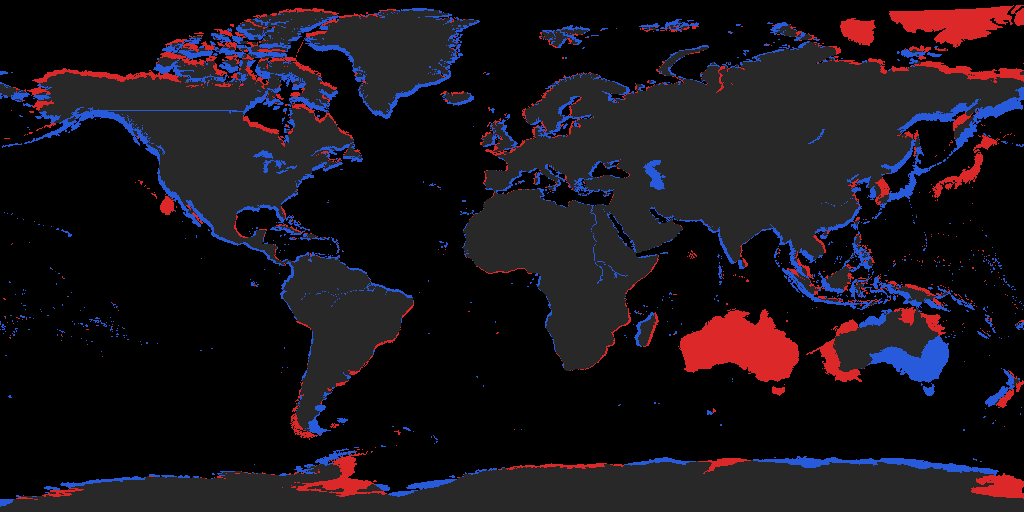
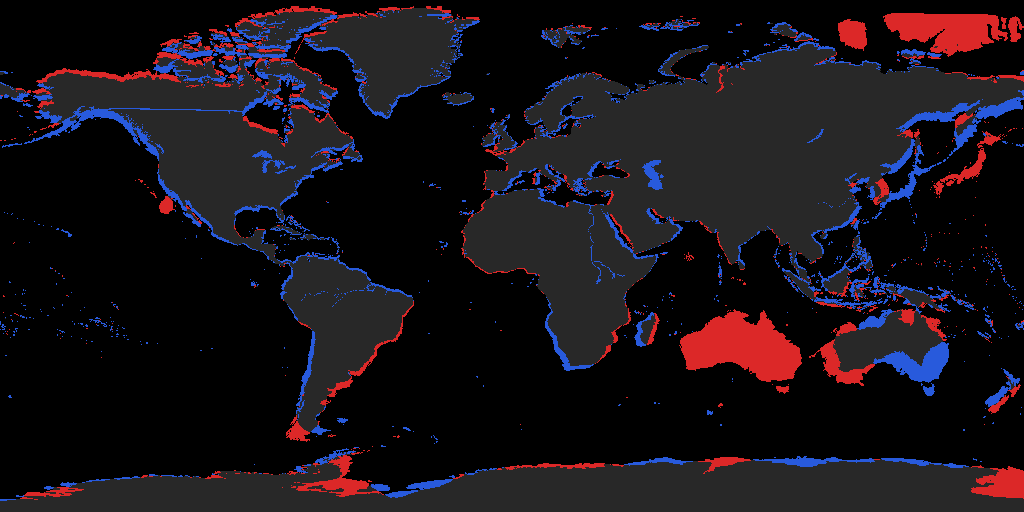
mapfix: fit world & Antarctica bands separately (per-band poly)
The world map (Miller) and Antarctica map (equirect) are different projections
stitched at the seam; a single global polynomial averaged two unrelated
distortions across it. Now --model poly fits each band on its own
(fit_poly_field_banded): world --poly-degree 5, thin Antarctica --ant-degree 3,
y normalized within each band, seam rows lightly blended. Default --per-band
(--no-per-band keeps the old global fit).

Result vs global poly: total land/sea disagreement 9.18% -> 8.70%; squeezed
provinces 56 -> 36; tiny delta +64 -> +36; fragmented 294 (< live 663); all
15320 IDs survive; PASS. Remaining residual is mostly the protected intentional
distortions + the irreducible 1px coastline fringe.

diff --git a/tools/mapfix/warp_map.py b/tools/mapfix/warp_map.py
@@ -318,16 +318,85 @@ def fit_poly_field(ys, xs, dy, dx, conf, shape, degree):
     return DY, DX
 
 
+def _fit_poly_rows(ys, xs, dy, dx, conf, w, r0, r1, degree):
+    """Fit a poly to the nodes whose row is in [r0, r1) and evaluate it over
+    exactly those rows. y is normalized WITHIN the band so the fit stays well
+    conditioned even for a thin band (e.g. Antarctica). Returns (r1-r0, w) DY,DX.
+    """
+    rsel = np.where((ys >= r0) & (ys < r1))[0]
+    span = max(r1 - 1 - r0, 1)
+    terms = _poly_terms(degree)
+    YS, XS = np.meshgrid(ys[rsel], xs, indexing="ij")
+    yn = ((YS - r0) / span) * 2 - 1
+    xn = (XS / (w - 1)) * 2 - 1
+    wts = np.clip(conf[rsel], 0, None).ravel()
+    m = wts > 1e-6
+    A = np.stack([(yn ** i * xn ** j).ravel() for (i, j) in terms], axis=1)
+    Aw = A[m] * wts[m, None]
+
+    def solve(vals):
+        bw = vals[rsel].ravel()[m] * wts[m]
+        c, *_ = np.linalg.lstsq(Aw, bw, rcond=None)
+        return c
+
+    cy, cx = solve(dy), solve(dx)
+    yy, xx = np.mgrid[r0:r1, 0:w]
+    ynf = (((yy - r0) / span) * 2 - 1).astype(np.float32)
+    xnf = ((xx / (w - 1)) * 2 - 1).astype(np.float32)
+    DYb = np.zeros((r1 - r0, w), np.float32)
+    DXb = np.zeros((r1 - r0, w), np.float32)
+    for (i, j), c_y, c_x in zip(terms, cy, cx):
+        b = ynf ** i * xnf ** j
+        DYb += (c_y * b).astype(np.float32)
+        DXb += (c_x * b).astype(np.float32)
+    return DYb, DXb
+
+
+def fit_poly_field_banded(ys, xs, dy, dx, conf, shape, bands, degree, ant_degree):
+    """Fit a SEPARATE polynomial per map band (world vs Antarctica) and stack
+    them. The world map (Miller) and the Antarctica map (equirect) are different
+    projections stitched at the seam, so a single global poly averages two
+    unrelated distortions across the seam. Fitting each band on its own corrects
+    each independently. The thin Antarctica band uses a lower degree. Seam rows
+    are lightly blended to avoid a hard step in the displacement."""
+    h, w = shape
+    DY = np.zeros((h, w), np.float32)
+    DX = np.zeros((h, w), np.float32)
+    seams = []
+    for band in bands:
+        name = band[0].lower()
+        r0 = max(0, int(round(band[1] * h)))
+        r1 = min(h, int(round(band[2] * h)))
+        if r1 <= r0:
+            continue
+        nrows = int(((ys >= r0) & (ys < r1)).sum())
+        deg = ant_degree if name == "antarctica" else degree
+        deg = max(1, min(deg, nrows - 1)) if nrows > 1 else 1
+        DY[r0:r1], DX[r0:r1] = _fit_poly_rows(ys, xs, dy, dx, conf, w, r0, r1, deg)
+        if r0 > 0:
+            seams.append(r0)
+    # soften each seam over a few rows so the warp has no hard step there
+    for s in seams:
+        t = 6
+        a, b = max(0, s - t), min(h, s + t)
+        if b - a >= 3:
+            DY[a:b] = gaussian_filter(DY[a:b], (t / 2.0, 0))
+            DX[a:b] = gaussian_filter(DX[a:b], (t / 2.0, 0))
+    return DY, DX
+
+
 def densify(ys, xs, dy, dx, conf, shape, smooth, gcps=None, protect=None,
-            gcp_radius=0.06, model="field", degree=4):
+            gcp_radius=0.06, model="field", degree=4, per_band=True,
+            bands=None, ant_degree=2):
     """Build the displacement field, then apply GCPs and protection.
 
     model='field' (default): confidence-weighted Gaussian smoothing + upsample
       of the dense node displacements. Follows local coastlines closely but can
       introduce visible wobble.
-    model='poly': fit one smooth low-degree polynomial to the node samples
-      (see fit_poly_field). Corrects only the large-scale (aspect-ratio) warp,
-      no wobble.
+    model='poly': fit a smooth low-degree polynomial to the node samples (see
+      fit_poly_field). Corrects only the large-scale (aspect-ratio) warp, no
+      wobble. With per_band=True, fits world and Antarctica bands separately
+      (recommended -- the two are different projections; see fit_poly_field_banded).
 
     GCPs are applied as LOCAL nudges: each control point adds its residual
     (desired - auto displacement) with a Gaussian falloff (radius = gcp_radius
@@ -336,7 +405,10 @@ def densify(ys, xs, dy, dx, conf, shape, smooth, gcps=None, protect=None,
     Protected regions have their displacement feathered back to zero.
     """
     h, w = shape
-    if model == "poly":
+    if model == "poly" and per_band and bands:
+        DY, DX = fit_poly_field_banded(ys, xs, dy, dx, conf, shape, bands,
+                                       degree, ant_degree)
+    elif model == "poly":
         DY, DX = fit_poly_field(ys, xs, dy, dx, conf, shape, degree)
     else:
         cw = np.clip(conf, 0, None)
@@ -529,8 +601,13 @@ def main():
                     help="poly = smooth low-order warp (no wobble, large-scale "
                          "only, default); field = dense block-match field "
                          "(follows coastlines closely but can wobble)")
-    ap.add_argument("--poly-degree", type=int, default=4,
-                    help="polynomial degree for --model poly (3-5 typical)")
+    ap.add_argument("--poly-degree", type=int, default=5,
+                    help="polynomial degree for the world band (--model poly)")
+    ap.add_argument("--per-band", action=argparse.BooleanOptionalAction, default=True,
+                    help="fit world & Antarctica bands separately (default; "
+                         "--no-per-band fits one global poly)")
+    ap.add_argument("--ant-degree", type=int, default=3,
+                    help="polynomial degree for the (thin) Antarctica band")
     ap.add_argument("--gcps", default=os.path.join(HERE, "gcps.csv"),
                     help="CSV of ground control points (steers/overrides warp)")
     ap.add_argument("--protect", default=os.path.join(HERE, "protect.csv"),
@@ -581,9 +658,15 @@ def main():
     ys, xs, dy, dx, conf = estimate_field(src, ref, args.grid, args.win, args.search)
     DY, DX = densify(ys, xs, dy, dx, conf, (h, w), args.smooth,
                      gcps=gcps, protect=protect, gcp_radius=args.gcp_radius,
-                     model=args.model, degree=args.poly_degree)
-    print(f"      field model: {args.model}"
-          + (f" (degree {args.poly_degree})" if args.model == "poly" else ""))
+                     model=args.model, degree=args.poly_degree,
+                     per_band=args.per_band, bands=bands, ant_degree=args.ant_degree)
+    if args.model == "poly":
+        print(f"      field model: poly "
+              + (f"per-band (world deg {args.poly_degree}, antarctica deg "
+                 f"{args.ant_degree})" if args.per_band
+                 else f"global (degree {args.poly_degree})"))
+    else:
+        print("      field model: field")
     mag = np.sqrt(DY ** 2 + DX ** 2)
     print(f"      displacement: mean={mag.mean():.1f}px max={mag.max():.1f}px "
           f"(@ {w}px-wide frame)")

diff --git a/tools/mapfix/README.md b/tools/mapfix/README.md
@@ -9,7 +9,8 @@
   - 南極バンド：行 2192–2560（0.8562–1.0）↔ **正距円筒**、緯度 **−57°〜−90°**
 - **陸海の判定は `provinces.bmp` ＋ `definition.csv` の種別（land/sea/lake）が正解基準**（既定 `--landsea province`）。terrain/heightmap の塗りは海岸線を正確に表さないため使わない。
 - 変位場は2モデルを選べる（`--model`）。**既定は `poly`（低次多項式＝大局的な縦横比歪みだけを滑らかに補正、海岸線が波打たない）**。`field`（密ブロックマッチ）は局所追従が強いが波打ちやすい。
-  - 実測（10m参照・プロヴィンス基準・継ぎ目下から367.5px）：陸海食い違い **before 13.2% → poly 9.1% / field 7.1%**。fieldは数値上良いが見た目がぐにゃつくため既定はpoly。
+- **poly は世界バンドと南極バンドを別々にフィット**（既定 `--per-band`。世界=`--poly-degree 5`、南極=`--ant-degree 3`）。両バンドは投影が異なるため、1枚の大域多項式だと継ぎ目をまたいで2つの無関係な歪みを平均してしまう。バンド独立化で南極も改善し、潰れる小プロヴィンスも減る（squeezed 56→36）。`--no-per-band` で旧大域。
+  - 実測（10m参照・プロヴィンス基準・継ぎ目下から367.5px）：陸海食い違い **before 13.2% → poly(per-band) 8.7%**（保護領域除外の真の残差 world 7.1% / 南極 7.2%）。`field` は約3%まで下がるが見た目がぐにゃつくため既定は poly。**残差の大半は保護中の意図的歪み（豪州/日本/朝鮮/四国大陸）と、解像度由来の海岸線1pxフリンジ**であり、これ以上は warp では詰められない。
 - 全レイヤーを **同一の変位場でワープ**（プロヴィンス/terrain/riversは最近傍補間で色＝ID保持、heightmap/normalはバイリニア）。
 - この方式なら **province ID が変わらない**ので、`definition.csv` / states / history / supply などの既存データは壊れない（検証は `verify_apply.py`）。
 
